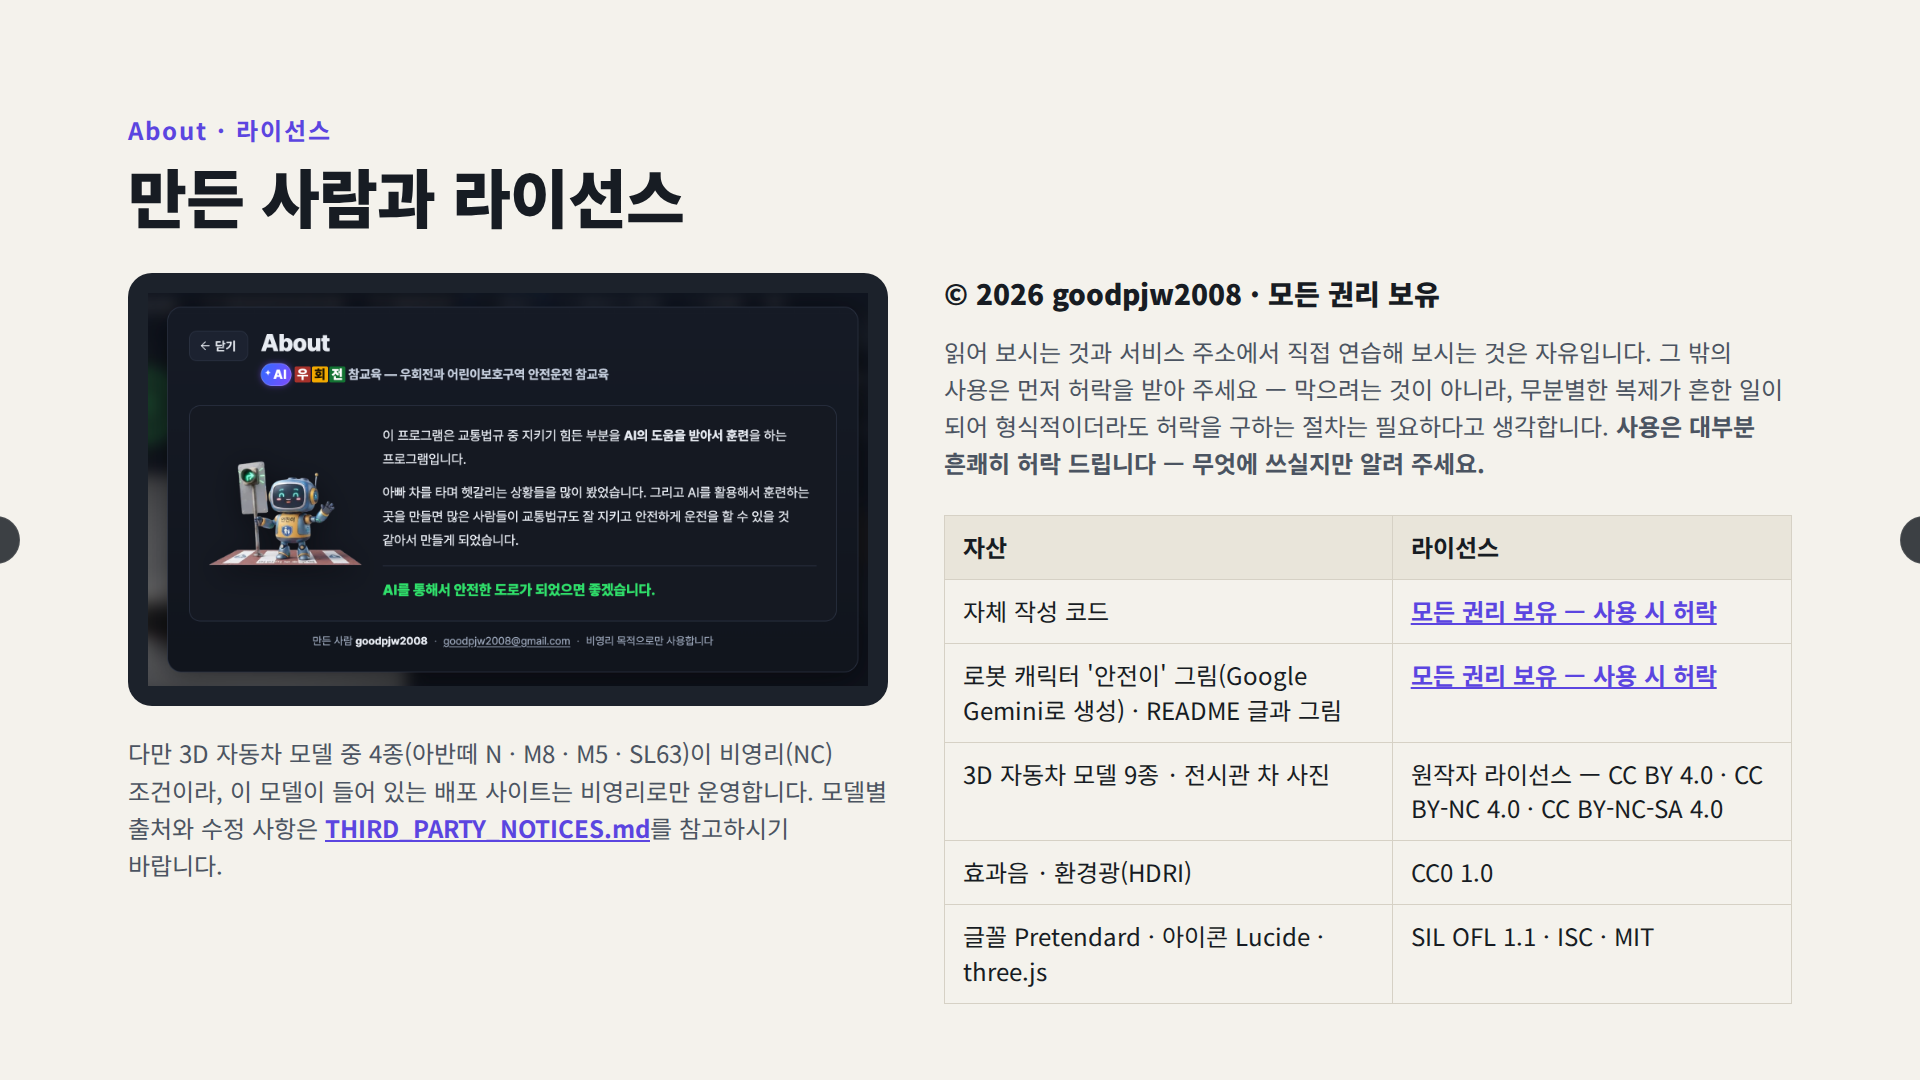
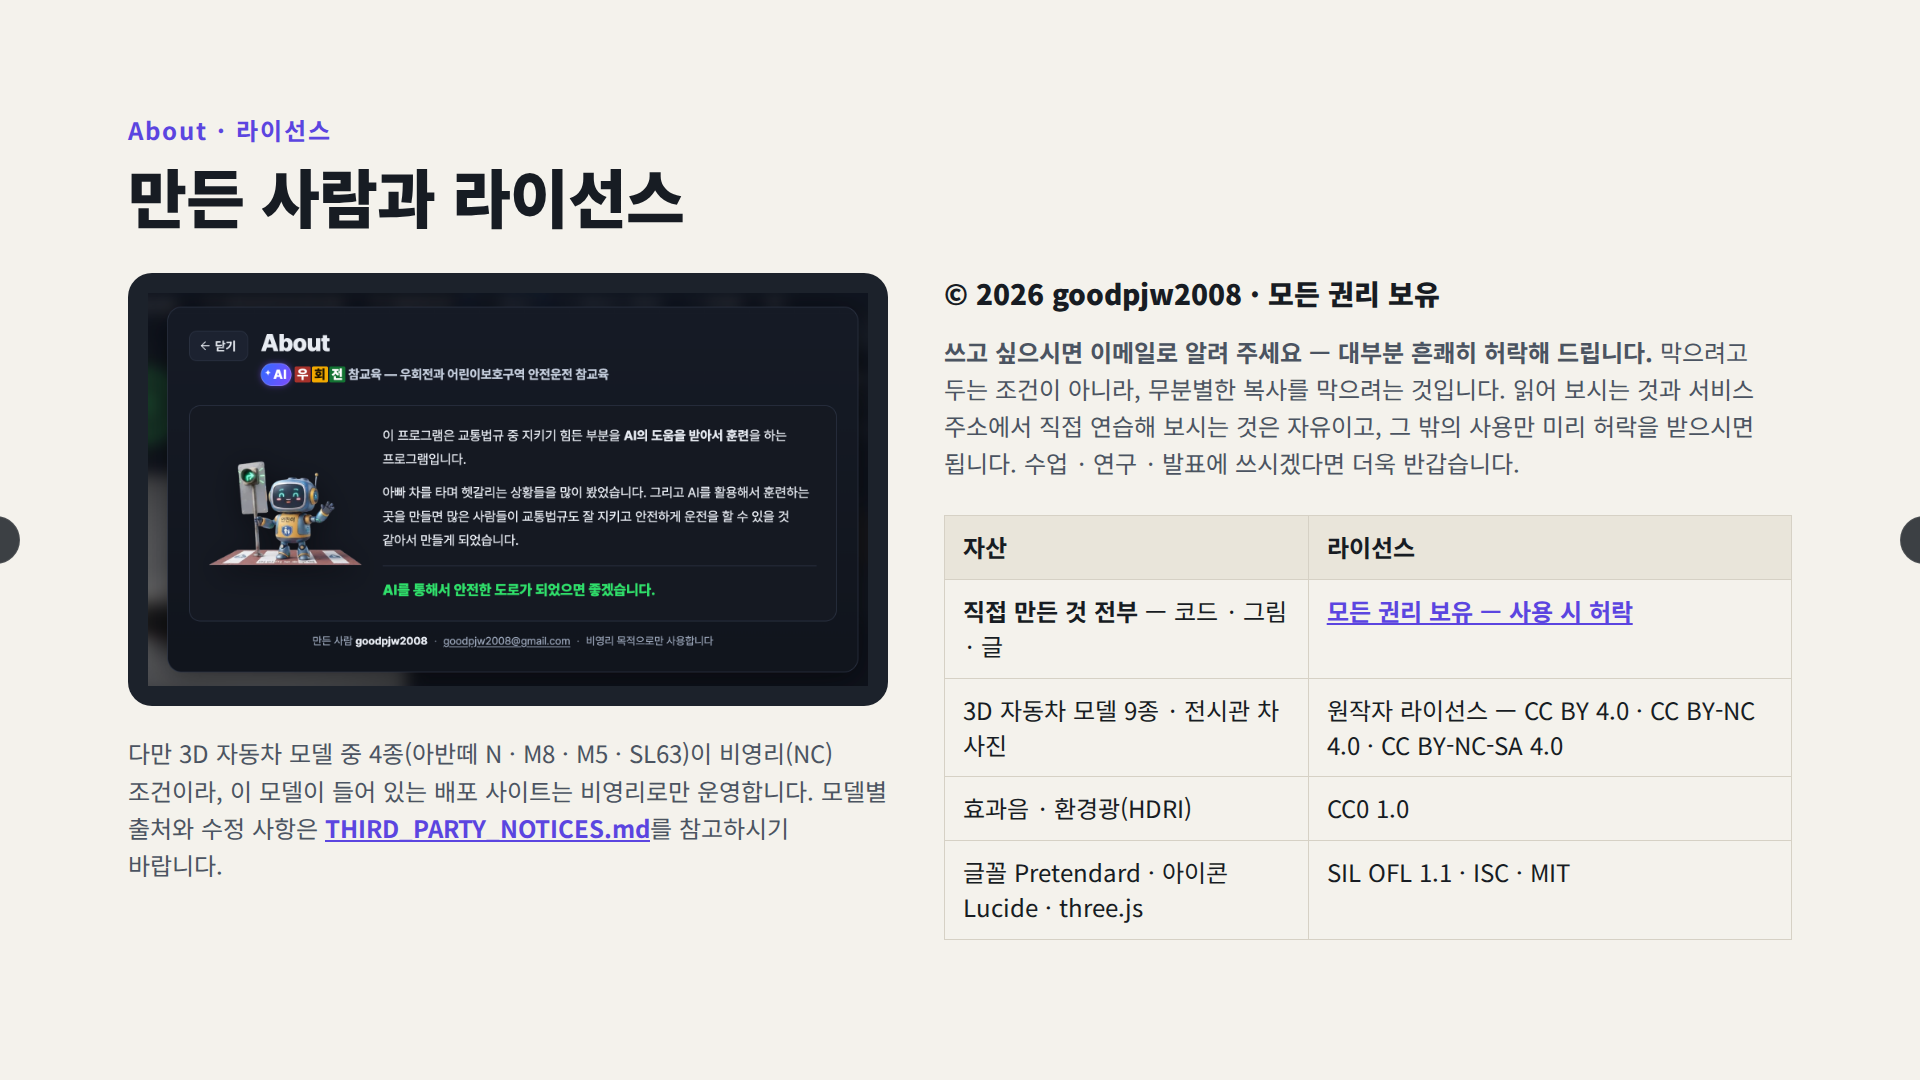
라이선스의 말투를 고치고, 적용 범위를 러프하게 적는다
사용자가 짚었다: 딱딱하고 버릇없어 보인다, 그리고 범위를 너무 자세히 적지
말아라 — 가져다 쓴 것 말고는 결국 다 내 것이다.

- **공유하겠다는 뜻을 맨 앞에 둔다.** 조건을 늘어놓기 전에 '쓰고 싶으시면
  이메일로 알려 주세요 — 대부분 흔쾌히 허락해 드립니다' 가 먼저 읽힌다.
  금지가 먼저 오면 읽는 사람은 거기서 멈춘다.
- **범위는 뒤집어 적는다** — '가져다 쓴 것을 뺀 나머지 전부'. 하나하나 세면
  빠뜨린 것이 빠져나갈 여지가 생긴다. 절도 둘에서 하나로 합친다.
- '저작권자의 사전 서면 허락' → '미리 허락을 받아 주세요, 이메일 한 통이면
  됩니다'. 실제로 이메일로 받는데 '서면' 은 계약서를 떠올리게 한다.
- '허락이 필요하다는 뜻이지, 안 된다는 뜻이 아닙니다' 를 못 박는다 — 4절의
  '수업에 쓰려면 허락' 과 5절의 '수업이면 더 반갑다' 가 어긋나 보였다.
- '고등학생이 혼자 만든 것' → '혼자 만든 작품이라'.
- 머리말을 한 줄로 (사용자가 정한 문구).

README · THIRD_PARTY_NOTICES · 포트폴리오 장표도 같은 말로 맞추고, 장표와
슬라이드쇼를 다시 뽑는다.

diff --git a/AI_safelevelup_portfolio.html b/AI_safelevelup_portfolio.html
@@ -328,11 +328,10 @@
           </div>
           <div class="doc-right">
             <p class="copy">© 2026 goodpjw2008 · 모든 권리 보유</p>
-            <p class="note" style="margin:0 0 14px">읽어 보시는 것과 서비스 주소에서 직접 연습해 보시는 것은 자유입니다. 그 밖의 사용은 먼저 허락을 받아 주세요 — 막으려는 것이 아니라, 무분별한 복제가 흔한 일이 되어 형식적이더라도 허락을 구하는 절차는 필요하다고 생각합니다. <b>사용은 대부분 흔쾌히 허락 드립니다 — 무엇에 쓰실지만 알려 주세요.</b></p>
+            <p class="note" style="margin:0 0 14px"><b>쓰고 싶으시면 이메일로 알려 주세요 — 대부분 흔쾌히 허락해 드립니다.</b> 막으려고 두는 조건이 아니라, 무분별한 복사를 막으려는 것입니다. 읽어 보시는 것과 서비스 주소에서 직접 연습해 보시는 것은 자유이고, 그 밖의 사용만 미리 허락을 받으시면 됩니다. 수업 · 연구 · 발표에 쓰시겠다면 더욱 반갑습니다.</p>
             <table>
               <tr><th>자산</th><th>라이선스</th></tr>
-              <tr><td>자체 작성 코드</td><td><a href="https://github.com/goodpjw2008/Project_AI-SafeDriveLevelup/blob/main/LICENSE" target="_blank" rel="noopener">모든 권리 보유 — 사용 시 허락</a></td></tr>
-              <tr><td>로봇 캐릭터 '안전이' 그림(Google Gemini로 생성) · README 글과 그림</td><td><a href="https://github.com/goodpjw2008/Project_AI-SafeDriveLevelup/blob/main/LICENSE" target="_blank" rel="noopener">모든 권리 보유 — 사용 시 허락</a></td></tr>
+              <tr><td><b>직접 만든 것 전부</b> — 코드 · 그림 · 글</td><td><a href="https://github.com/goodpjw2008/Project_AI-SafeDriveLevelup/blob/main/LICENSE" target="_blank" rel="noopener">모든 권리 보유 — 사용 시 허락</a></td></tr>
               <tr><td>3D 자동차 모델 9종 · 전시관 차 사진</td><td>원작자 라이선스 — CC BY 4.0 · CC BY-NC 4.0 · CC BY-NC-SA 4.0</td></tr>
               <tr><td>효과음 · 환경광(HDRI)</td><td>CC0 1.0</td></tr>
               <tr><td>글꼴 Pretendard · 아이콘 Lucide · three.js</td><td>SIL OFL 1.1 · ISC · MIT</td></tr>

diff --git a/CHANGELOG.md b/CHANGELOG.md
@@ -81,6 +81,8 @@
   - **허락 없이 해도 되는 것** — 저장소를 열람하고 코드를 읽는 것, 서비스 주소에서 직접 연습해 보는 것, 출처를 밝히고 소개 · 인용 · 비평하는 것(저작권법 제28조).
   - **허락을 받아야 하는 것** — 복제 · 배포 · 수정 · 번역 · 2차적저작물 작성, 다른 서비스나 저장소에 싣는 것, 수업 · 발표 · 전시에서 코드나 그림을 가져다 쓰는 것. 영리 · 비영리를 가리지 않습니다.
   - **제3자 자산은 그대로입니다** — 3D 자동차 모델 9종 · 효과음 · 환경광 · 글꼴 · 아이콘 · three.js 는 각 원작자의 라이선스를 따릅니다. 저작권자도 그 조건은 바꿀 수 없습니다 ([THIRD_PARTY_NOTICES.md](THIRD_PARTY_NOTICES.md)).
+  - **말투를 다듬었습니다** — 조건을 늘어놓기 전에 **공유하겠다는 뜻을 맨 앞에** 둡니다: "쓰고 싶으시면 이메일로 알려 주세요 — 대부분 흔쾌히 허락해 드립니다. 막으려고 두는 조건이 아니라, 무분별한 복사를 막으려는 것입니다." '사전 서면 허락' 처럼 딱딱한 말은 '이메일 한 통' 으로 바꾸고, '허락이 필요하다는 뜻이지 안 된다는 뜻이 아니다' 를 못 박았습니다.
+  - **적용 범위는 일일이 적지 않습니다** — "가져다 쓴 것을 뺀 나머지 전부" 로 뒤집어 적습니다. 하나하나 세면 **빠뜨린 것이 빠져나갈 여지**가 생깁니다.
   - **이 조건 이전에 공개된 판은 그대로입니다.** 한 번 준 허락(MIT · CC BY 4.0)은 되돌릴 수 없어, 그때 받아 간 판에 한해서는 그 라이선스가 유효합니다. 새 조건은 이 판부터 적용됩니다.
   - `LICENSE-ASSETS` 는 없앴습니다 — 코드와 그림이 같은 조건이 되어 `LICENSE` 한 곳에 모았습니다. README · 포트폴리오 장표 · `THIRD_PARTY_NOTICES.md` · `package.json` 의 표기도 함께 고쳤습니다.
 

diff --git a/THIRD_PARTY_NOTICES.md b/THIRD_PARTY_NOTICES.md
@@ -2,7 +2,7 @@
 
 본 프로젝트는 제3자 3D 모델 · 소리 · 이미지 · 글꼴 · 소프트웨어를 사용합니다. 이 문서는 사용한 각 자산의 출처와 라이선스를 안내하기 위한 참고 자료입니다.
 
-> **참고**: 본 프로젝트의 자체 작성 코드 · 로봇 캐릭터 그림 · README 의 글과 그림은 **모든 권리 보유**이며, 사용하려면 먼저 허락을 받아야 합니다 ([LICENSE](LICENSE)). 아래의 제3자 자산은 **각 원작자의 라이선스**를 그대로 따르며, LICENSE 가 무엇을 정하든 그 조건대로 써야 합니다.
+> **참고**: 아래 목록에 없는 것 — 즉 **직접 만든 코드 · 그림 · 글 전부** — 는 모든 권리 보유이며, 쓰시려면 미리 허락을 받아 주세요 ([LICENSE](LICENSE)). 아래의 제3자 자산은 **각 원작자의 라이선스**를 그대로 따르며, LICENSE 가 무엇을 정하든 그 조건대로 써야 합니다.
 >
 > 3D 자동차 모델 중 4종(아반떼 N · M8 · M5 · SL63)은 **비영리(NC)** 조건입니다. 이 모델이 들어 있는 배포 사이트(https://safelevelup.vercel.app)는 비영리로만 운영합니다. 이 저장소를 상업적으로 쓰려면 해당 모델 파일과 그 차 사진을 빼야 합니다.
 
